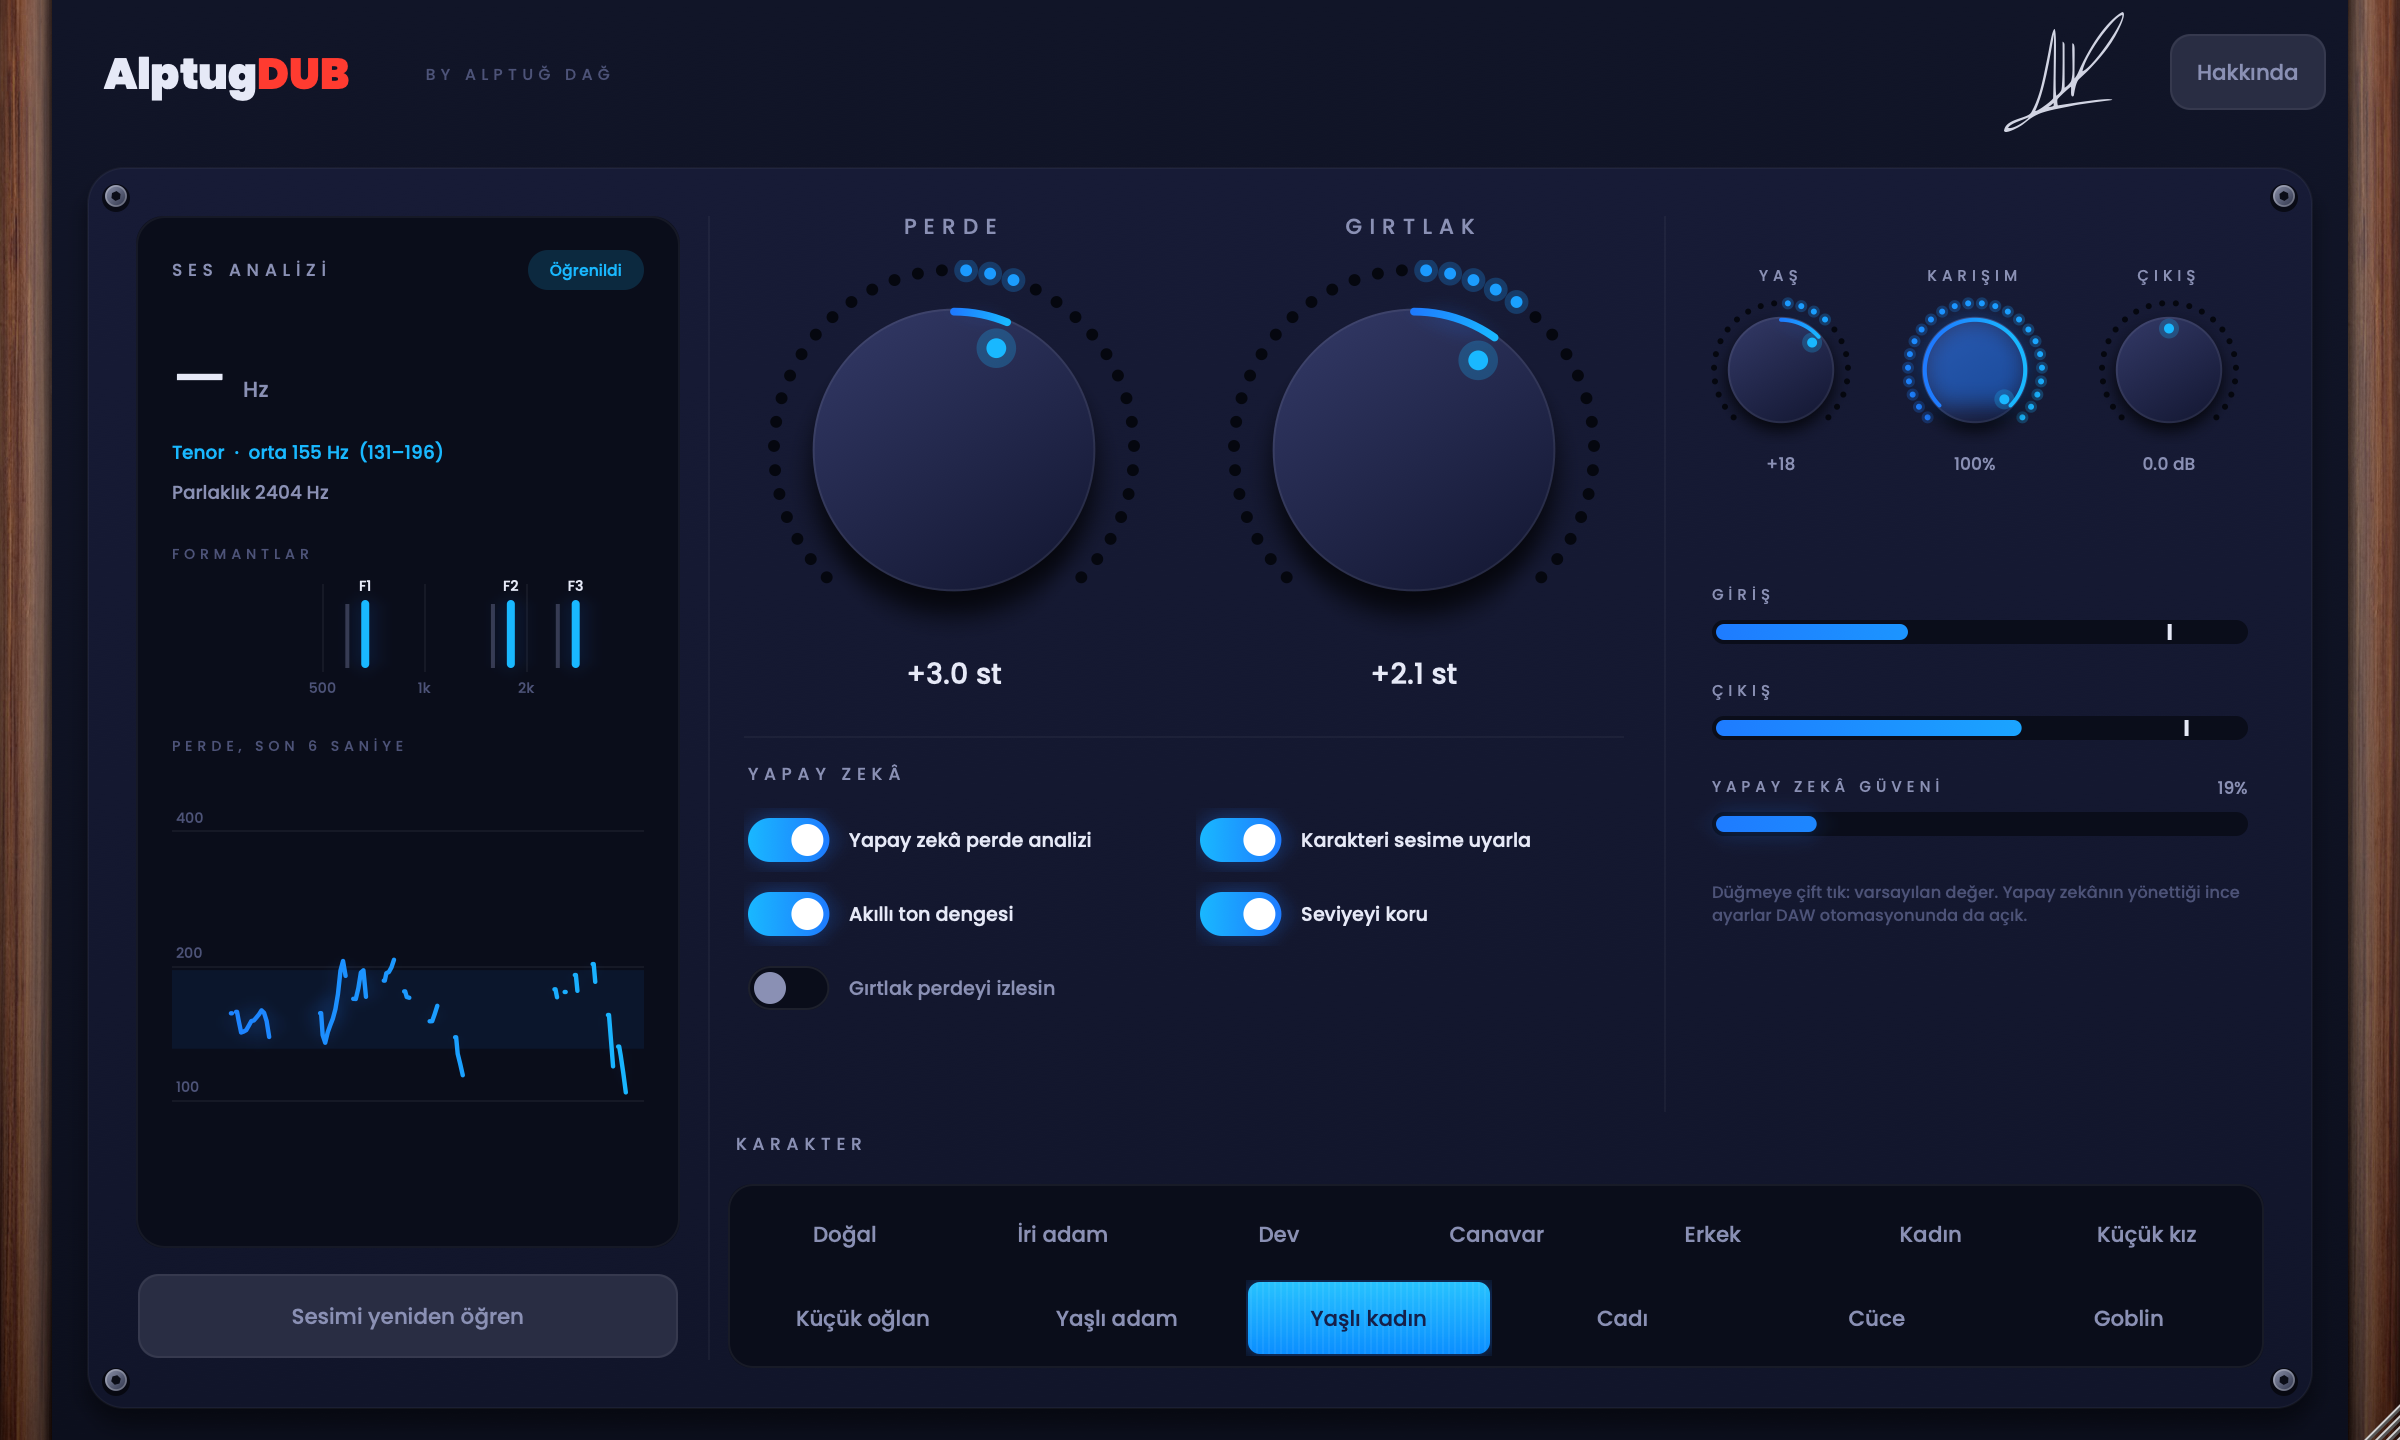
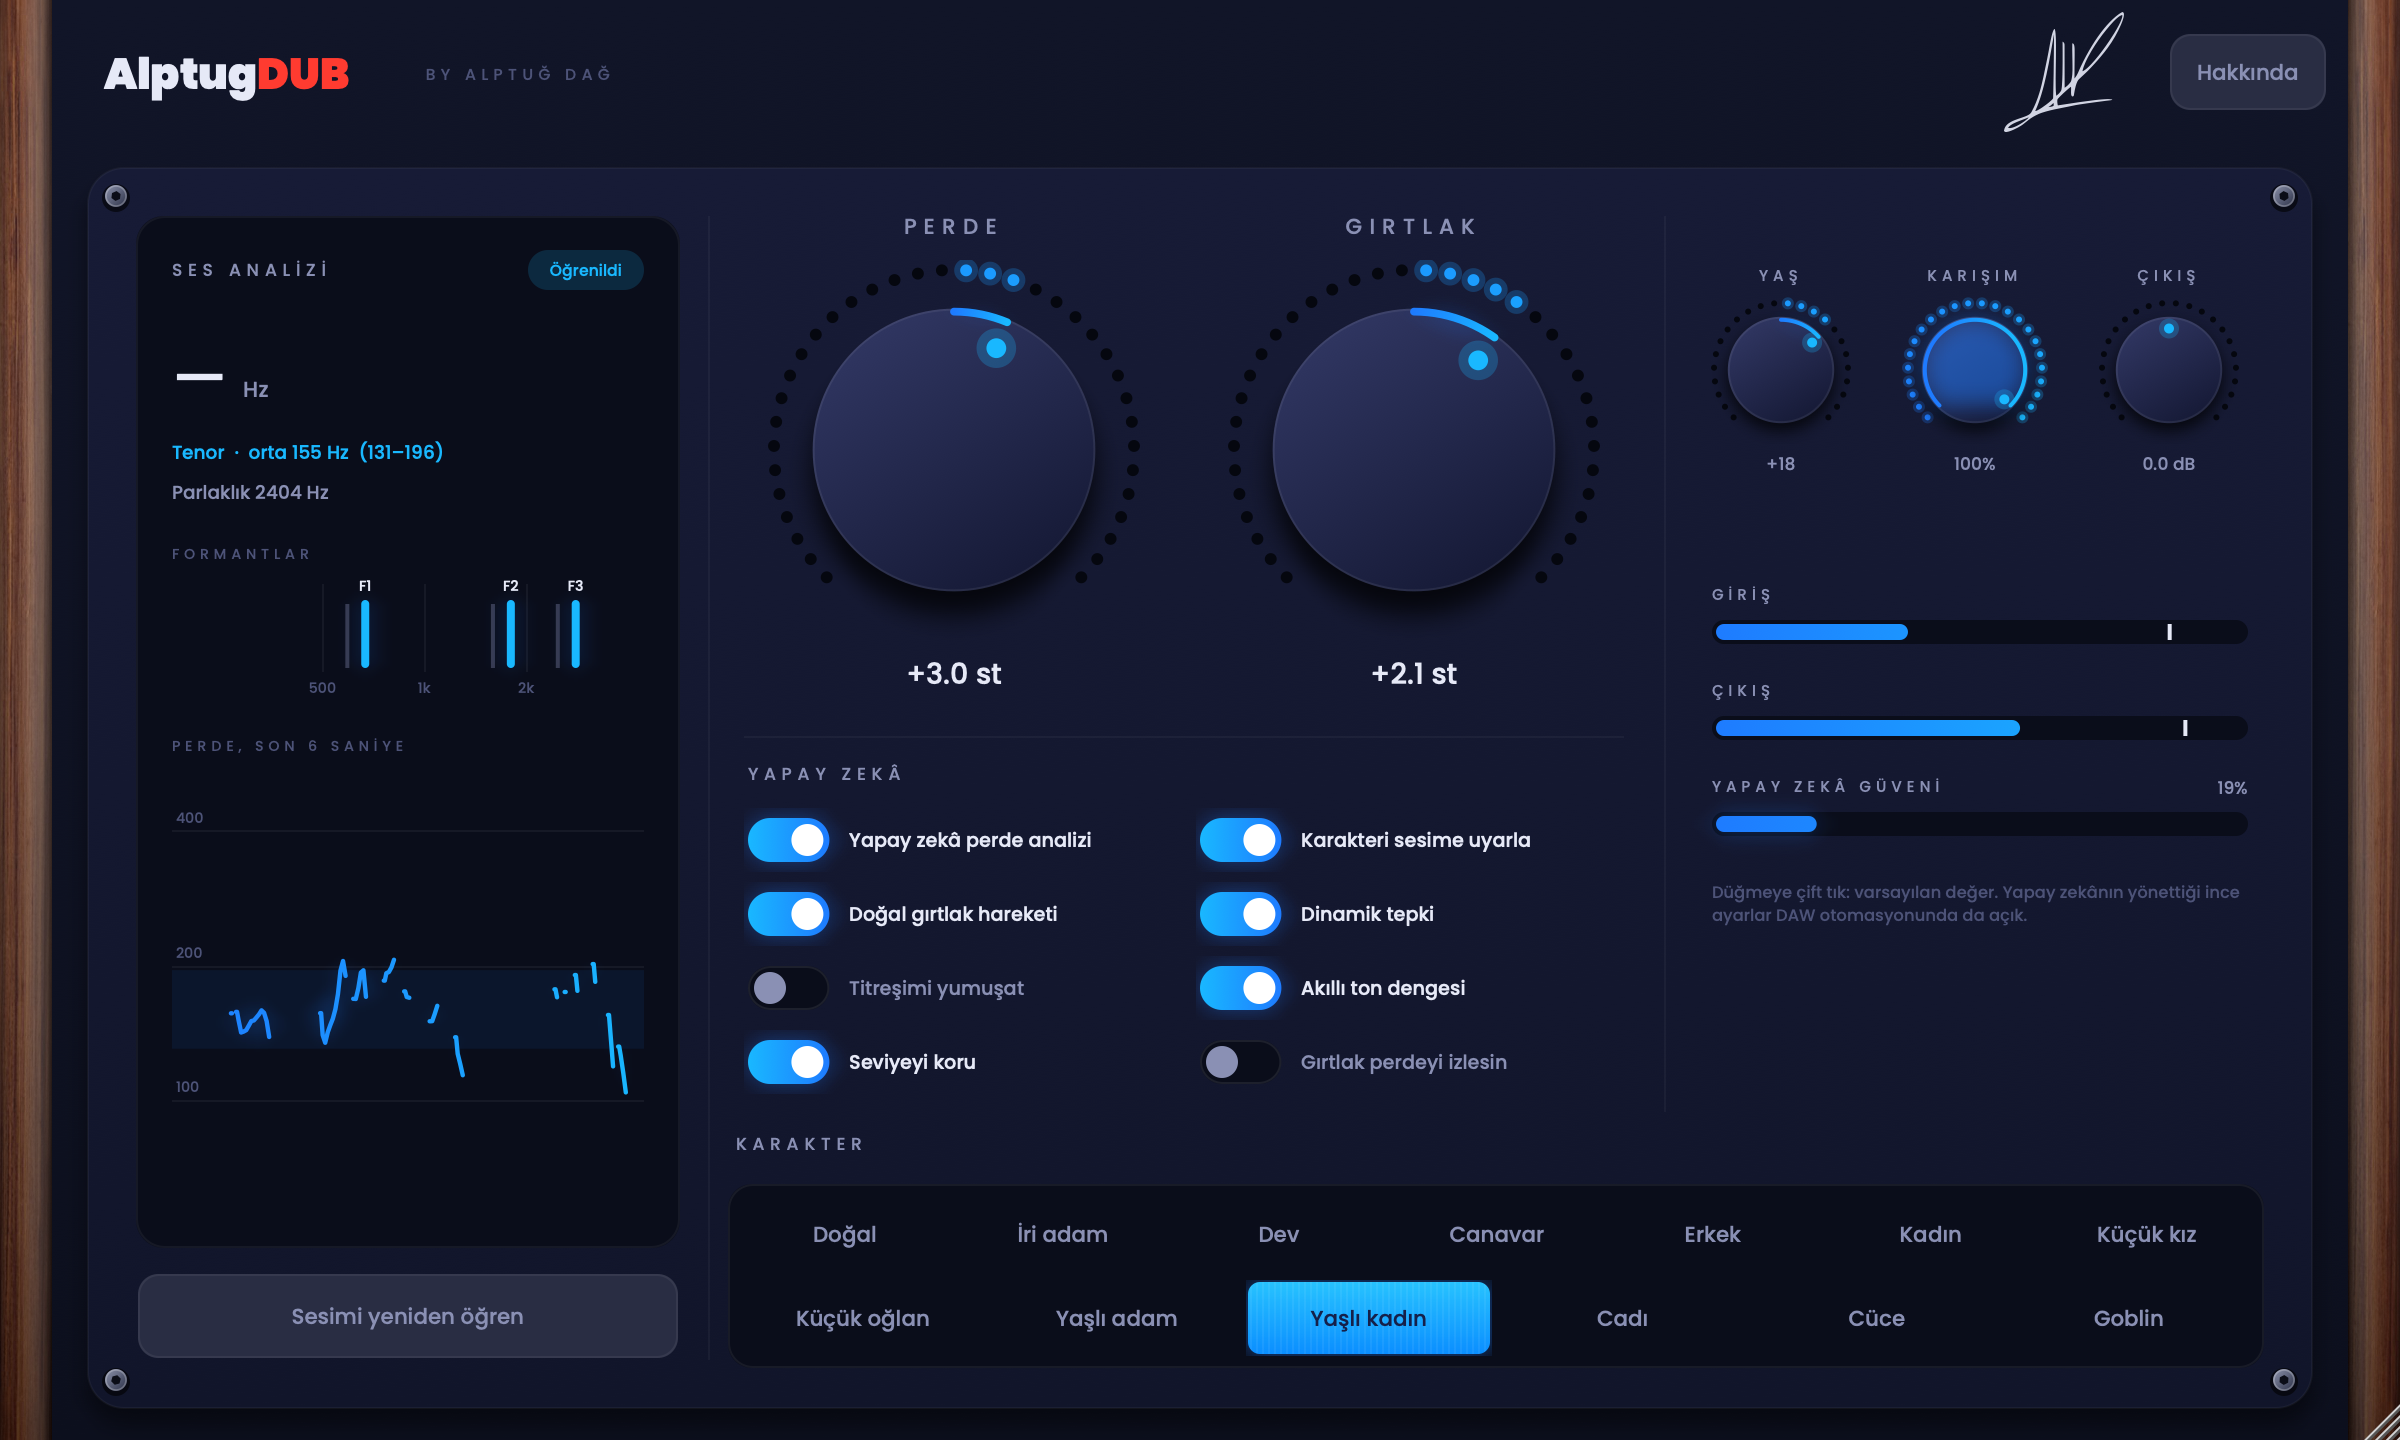
1.2.0: tract motion, dynamic response and steady pitch return on the spectral engine

Changed region(s): [[0.5, 0.625, 0.625, 0.75], [0.3438, 0.625, 0.4375, 0.6875], [0.3125, 0.7188, 0.4062, 0.7812]]

diff --git a/src/PluginProcessor.cpp b/src/PluginProcessor.cpp
@@ -78,6 +78,9 @@ juce::AudioProcessorValueTreeState::ParameterLayout AlptugDUBProcessor::layout()
     l.add(std::make_unique<AudioParameterBool>(ParameterID{ids::ai, 1}, "AI analysis", true));
     l.add(std::make_unique<AudioParameterBool>(ParameterID{ids::autoMatch, 1}, "Auto match character", true));
     l.add(std::make_unique<AudioParameterBool>(ParameterID{ids::autoTone, 1}, "Smart tone", true));
+    l.add(std::make_unique<AudioParameterBool>(ParameterID{ids::autoTract, 1}, "Natural tract motion", true));
+    l.add(std::make_unique<AudioParameterBool>(ParameterID{ids::autoResponse, 1}, "Dynamic response", true));
+    l.add(std::make_unique<AudioParameterBool>(ParameterID{ids::autoSteady, 1}, "Steady pitch", false));
     StringArray names;
     for (auto& c : characters()) names.add(c.nameEn);
     l.add(std::make_unique<AudioParameterChoice>(ParameterID{ids::character, 1}, "Character", names, 0));
@@ -135,17 +138,21 @@ void AlptugDUBProcessor::reset() {
     levelDry = levelWet = 0;
     levelGain = 1;
     limitGain = 1;
+    melodyFast = melodySlow = fastF0 = 0;
+    effortFast = 0;
+    effortSlow = 1e-4f;
+    lastPresenceDyn = 0;
     pitchSm.setCurrentAndTargetValue(param(ids::pitch));
     formantSm.setCurrentAndTargetValue(param(ids::formant));
     mixSm.setCurrentAndTargetValue(param(ids::mix));
     gainSm.setCurrentAndTargetValue(juce::Decibels::decibelsToGain(param(ids::output)));
 }
 
-void AlptugDUBProcessor::updateFilters(float bodyExtra, float airExtra) {
+void AlptugDUBProcessor::updateFilters(float bodyExtra, float airExtra, float presenceExtra) {
     const float body = juce::jlimit(-9.0f, 9.0f, param(ids::body) + bodyExtra);
     const float air = juce::jlimit(-9.0f, 9.0f, param(ids::air) + airExtra);
     const float nasal = param(ids::nasal);
-    const float presence = param(ids::presence);
+    const float presence = juce::jlimit(-9.0f, 9.0f, param(ids::presence) + presenceExtra);
     if (std::abs(body - lastBody) > 0.01f) {
         *bodyEq.state = *juce::dsp::IIR::Coefficients<float>::makeLowShelf(sr, 170.0, 0.7, juce::Decibels::decibelsToGain(body));
         lastBody = body;
@@ -154,7 +161,7 @@ void AlptugDUBProcessor::updateFilters(float bodyExtra, float airExtra) {
         *airEq.state = *juce::dsp::IIR::Coefficients<float>::makeHighShelf(sr, std::min(9000.0, sr * 0.4), 0.7, juce::Decibels::decibelsToGain(air));
         lastAir = air;
     }
-    if (presence != lastPresence) {
+    if (std::abs(presence - lastPresence) > 0.05f) {
         *presenceEq.state = *juce::dsp::IIR::Coefficients<float>::makePeakFilter(sr, 3200.0, 0.9, juce::Decibels::decibelsToGain(presence));
         lastPresence = presence;
     }
@@ -251,6 +258,14 @@ void AlptugDUBProcessor::processBlock(juce::AudioBuffer<float>& buffer, juce::Mi
             const auto e = yin.estimate();
             if (e.voiced()) profile.addBreath(e.aperiodicity);
             voicedNow = e.voiced() && e.rms > 0.003f;
+            fastF0 = voicedNow ? (float) (sr / e.period) : 0.0f;
+            if (fastF0 > 0) {
+                // the melody now (about 40 ms) and over the last second or so
+                const float lf = std::log(fastF0);
+                if (melodyFast <= 0 || melodySlow <= 0) melodyFast = melodySlow = lf;
+                melodyFast += (lf - melodyFast) * 0.12f;
+                melodySlow += (lf - melodySlow) * 0.008f;
+            }
             if (!useNeural) {
                 profile.addEstimate(e, hop);
                 liveF0.store(voicedNow ? (float) (sr / e.period) : 0.0f);
@@ -262,6 +277,14 @@ void AlptugDUBProcessor::processBlock(juce::AudioBuffer<float>& buffer, juce::Mi
             liveF0.store(e.voiced() ? (float) (sr / e.period) : 0.0f);
             liveConfidence.store(e.confidence);
         }
+    }
+    {
+        // how hard the speaker is speaking: block loudness against their own average (voiced only)
+        float e2 = 0;
+        for (int i = 0; i < n; ++i) e2 += m[i] * m[i];
+        const float rmsNow = std::sqrt(e2 / (float) n), blockSec = (float) n / (float) sr;
+        effortFast += (rmsNow - effortFast) * (1.0f - std::exp(-blockSec / 0.06f));
+        if (fastF0 > 0 && rmsNow > 0.003f) effortSlow += (rmsNow - effortSlow) * (1.0f - std::exp(-blockSec / 2.0f));
     }
     profile.addAudio(m, n, voicedNow);
     {
@@ -279,8 +302,17 @@ void AlptugDUBProcessor::processBlock(juce::AudioBuffer<float>& buffer, juce::Mi
 
     // ---- the voice engine: pitch and formants shifted independently ----
     const auto shape = ageShape(param(ids::age));
-    pitchSm.setTargetValue(param(ids::pitch) + shape.pitch);
-    formantSm.setTargetValue(param(ids::formant) + shape.formant);
+    // Dynamics, all slow and smoothed (the shifter itself is never driven per pulse):
+    //  steady   the pitch contour is pulled a little toward its own average, so wobble calms down
+    //  tract    the vocal tract moves with the melody, as a real larynx does (at most +-2 st)
+    float dynPitch = 0, dynFormant = 0;
+    const bool voiceNow = melodyFast > 0 && melodySlow > 0 && fastF0 > 0;
+    if (voiceNow && param(ids::autoSteady) > 0.5f)
+        dynPitch = juce::jlimit(-1.2f, 1.2f, -0.45f * 12.0f * (melodyFast - melodySlow) / std::log(2.0f));
+    if (voiceNow && param(ids::autoTract) > 0.5f && summaryCopy.medianF0 > 0)
+        dynFormant = juce::jlimit(-2.0f, 2.0f, 0.1f * 12.0f * (melodyFast - std::log(summaryCopy.medianF0)) / std::log(2.0f));
+    pitchSm.setTargetValue(param(ids::pitch) + shape.pitch + dynPitch);
+    formantSm.setTargetValue(param(ids::formant) + shape.formant + dynFormant);
     pitchSm.skip(n);
     formantSm.skip(n);
     const float p = pitchSm.getCurrentValue();
@@ -298,7 +330,14 @@ void AlptugDUBProcessor::processBlock(juce::AudioBuffer<float>& buffer, juce::Mi
         bodyAuto = juce::jlimit(-3.0f, 4.0f, -0.25f * p);
         airAuto += juce::jlimit(-3.0f, 2.5f, 0.05f * p - 0.3f * f);
     }
-    updateFilters(bodyAuto, airAuto);
+    // dynamic response: a voice gets brighter and more present as the speaker pushes, softer and warmer when they ease off
+    float presenceDyn = 0;
+    if (param(ids::autoResponse) > 0.5f && effortSlow > 1e-4f) {
+        const float effort = juce::jlimit(0.4f, 2.5f, effortFast / effortSlow);
+        presenceDyn = 2.5f * juce::jlimit(-1.0f, 1.0f, std::log2(effort));
+    }
+    lastPresenceDyn += (presenceDyn - lastPresenceDyn) * 0.25f;
+    updateFilters(bodyAuto, airAuto, lastPresenceDyn);
     if (lastNasal > 0.001f) {
         nasalPeak.process(juce::dsp::ProcessContextReplacing<float>(wet));
         nasalLow.process(juce::dsp::ProcessContextReplacing<float>(wet));

diff --git a/src/PluginProcessor.h b/src/PluginProcessor.h
@@ -25,6 +25,9 @@ inline constexpr const char* loudness = "loudness";
 inline constexpr const char* ai = "ai";
 inline constexpr const char* autoMatch = "autoMatch";
 inline constexpr const char* autoTone = "autoTone";
+inline constexpr const char* autoTract = "autoTract";
+inline constexpr const char* autoResponse = "autoResponse";
+inline constexpr const char* autoSteady = "autoSteady";
 inline constexpr const char* character = "character";
 } // namespace ids
 
@@ -82,7 +85,7 @@ public:
 private:
     static juce::AudioProcessorValueTreeState::ParameterLayout layout();
     void timerCallback() override;
-    void updateFilters(float bodyExtra, float airExtra);
+    void updateFilters(float bodyExtra, float airExtra, float presenceExtra);
     float param(const char* id) const { return state.getRawParameterValue(id)->load(); }
 
     adub::SpectralShifter spectral;
@@ -99,6 +102,9 @@ private:
     using Eq = juce::dsp::ProcessorDuplicator<juce::dsp::IIR::Filter<float>, juce::dsp::IIR::Coefficients<float>>;
     Eq bodyEq, airEq, presenceEq, nasalPeak, nasalLow;
     float lastNasal = -1, lastBody = 1000, lastAir = 1000, lastPresence = 1000;
+    // live voice dynamics (from the fast tracker, 5 ms): the speaker's melody now and over the last second,
+    // and how hard they are speaking against their own average
+    float melodyFast = 0, melodySlow = 0, fastF0 = 0, effortFast = 0, effortSlow = 1e-4f, lastPresenceDyn = 0;
     float levelDry = 0, levelWet = 0, levelGain = 1; // keep level
     float limitGain = 1;                             // output safety limiter
     juce::SmoothedValue<float> pitchSm, formantSm, mixSm, gainSm;

diff --git a/src/PluginEditor.cpp b/src/PluginEditor.cpp
@@ -158,6 +158,15 @@ AlptugDUBEditor::AlptugDUBEditor(AlptugDUBProcessor& p)
         {ids::autoMatch, "Karakteri sesime uyarla", "Fit character to my voice",
          "Öğrenilen sesinize göre karakterin perdesini ve gırtlağını sürekli yeniden hesaplar.",
          "Keeps recomputing the character's pitch and formants from your learned voice."},
+        {ids::autoTract, "Doğal gırtlak hareketi", "Natural tract motion",
+         "Perde yükselip alçaldıkça gırtlak da gerçek bir ses gibi hafifçe hareket eder (en çok ±2 yarım ton).",
+         "The vocal tract rises and falls with the melody, as a real voice does (at most +-2 semitones)."},
+        {ids::autoResponse, "Dinamik tepki", "Dynamic response",
+         "Ton, sesin şiddetini izler: bağırınca daha parlak ve belirgin, kısılınca daha yumuşak ve sıcak.",
+         "The tone follows the effort: brighter and clearer when pushed, softer and warmer when eased off."},
+        {ids::autoSteady, "Titreşimi yumuşat", "Steady pitch",
+         "Perdedeki titrekliği ve ani oynamaları yumuşatır: daha kontrollü, oturaklı bir ses.",
+         "Calms pitch wobble and sudden wanders: a steadier, more controlled voice."},
         {ids::autoTone, "Akıllı ton dengesi", "Smart tone",
          "Kalınlaşan sese göğüs, incelen sese hava ekler; ton hiç donuklaşmaz.", "Adds chest to a deeper voice and air to a lighter one."},
         {ids::loudness, "Seviyeyi koru", "Keep level", "İşlenmiş ses orijinal kadar yüksek kalır.", "The processed voice stays as loud as the original."},

diff --git a/README.md b/README.md
@@ -29,6 +29,9 @@ kendisini dönüştürür.
   | --- | --- |
   | Yapay zekâ perde analizi | Sesinizi sinirsel modelle öğrenir; kapalıyken hızlı analiz kullanılır |
   | Karakteri sesime uyarla | Ses öğrenildikçe karakterin perdesini ve gırtlağını sürekli yeniden hesaplar |
+  | Doğal gırtlak hareketi | Perde yükselip alçaldıkça gırtlak da hafifçe hareket eder (en çok ±2 yarım ton) |
+  | Dinamik tepki | Ton sesin şiddetini izler: bağırınca daha parlak ve belirgin, kısılınca daha yumuşak ve sıcak |
+  | Titreşimi yumuşat | Perdedeki titrekliği ve ani oynamaları yumuşatır |
   | Akıllı ton dengesi | Kalınlaşan sese göğüs, incelen sese hava ekler; ton donuklaşmaz |
   | Seviyeyi koru | İşlenmiş ses, orijinali kadar yüksek kalır |
   | Gırtlak perdeyi izlesin | Formantlar perdeyle birlikte biraz kayar |
@@ -41,7 +44,7 @@ MIT). Gerçek bir kayıtla ölçüldü: tüm presetlerde sesli kısımların har
 
 ## Kurulum
 
-1. [Releases](https://github.com/AlptugDag/AlptugDUB/releases) sayfasından `AlptugDUB-1.1.0-macOS.zip` dosyasını indirin ve açın.
+1. [Releases](https://github.com/AlptugDag/AlptugDUB/releases) sayfasından `AlptugDUB-1.2.0-macOS.zip` dosyasını indirin ve açın.
 2. Terminal'de klasörün içinde çalıştırın:
 
    ```bash
@@ -79,7 +82,7 @@ independently. No reverb, no added noise: only the voice itself is transformed.
 - Two big knobs (Pitch ±18 st, Formant ±8 st), three small ones (Age −50…+50, Mix, Output), 12 characters plus
   Natural, all tuned to the learned voice.
 - On-device neural pitch analysis (SwiftF0, MIT) compiled into the plug-in; verified against the original ONNX model.
-- Switches: AI analysis, fit character to my voice, smart tone, keep level, formant follows pitch.
+- Switches: AI analysis, fit character to my voice, natural tract motion, dynamic response, steady pitch, smart tone, keep level, formant follows pitch.
 - A -0.3 dBFS safety limiter closes the chain.
 - Engine: spectral pitch and formant shifting (Signalsmith Stretch, MIT).
 - Install: download the release zip, run `sh install.sh`, rescan plug-ins.
